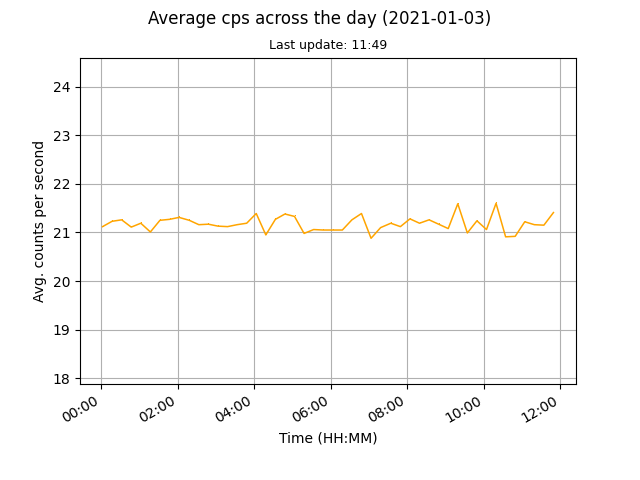
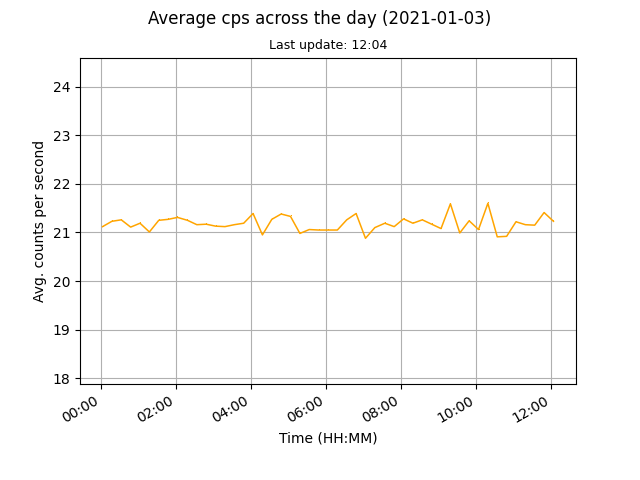
auto data update

diff --git a/docs/index.html b/docs/index.html
@@ -45,8 +45,8 @@
 	
 	<br>
 	
-	<p>Current counts per second (cps): 21.41</p>
-	<p>Last update: 2021-01-03, 11:49</p>
+	<p>Current counts per second (cps): 21.23</p>
+	<p>Last update: 2021-01-03, 12:05</p>
 
 	<p><a href="images/monthly.png"><img src="images/monthly.png" alt="Mothly avg cps data"></a><a href="images/daily.png"><img src="images/daily.png" alt="Daily avg cps data"></a></p>
 	
